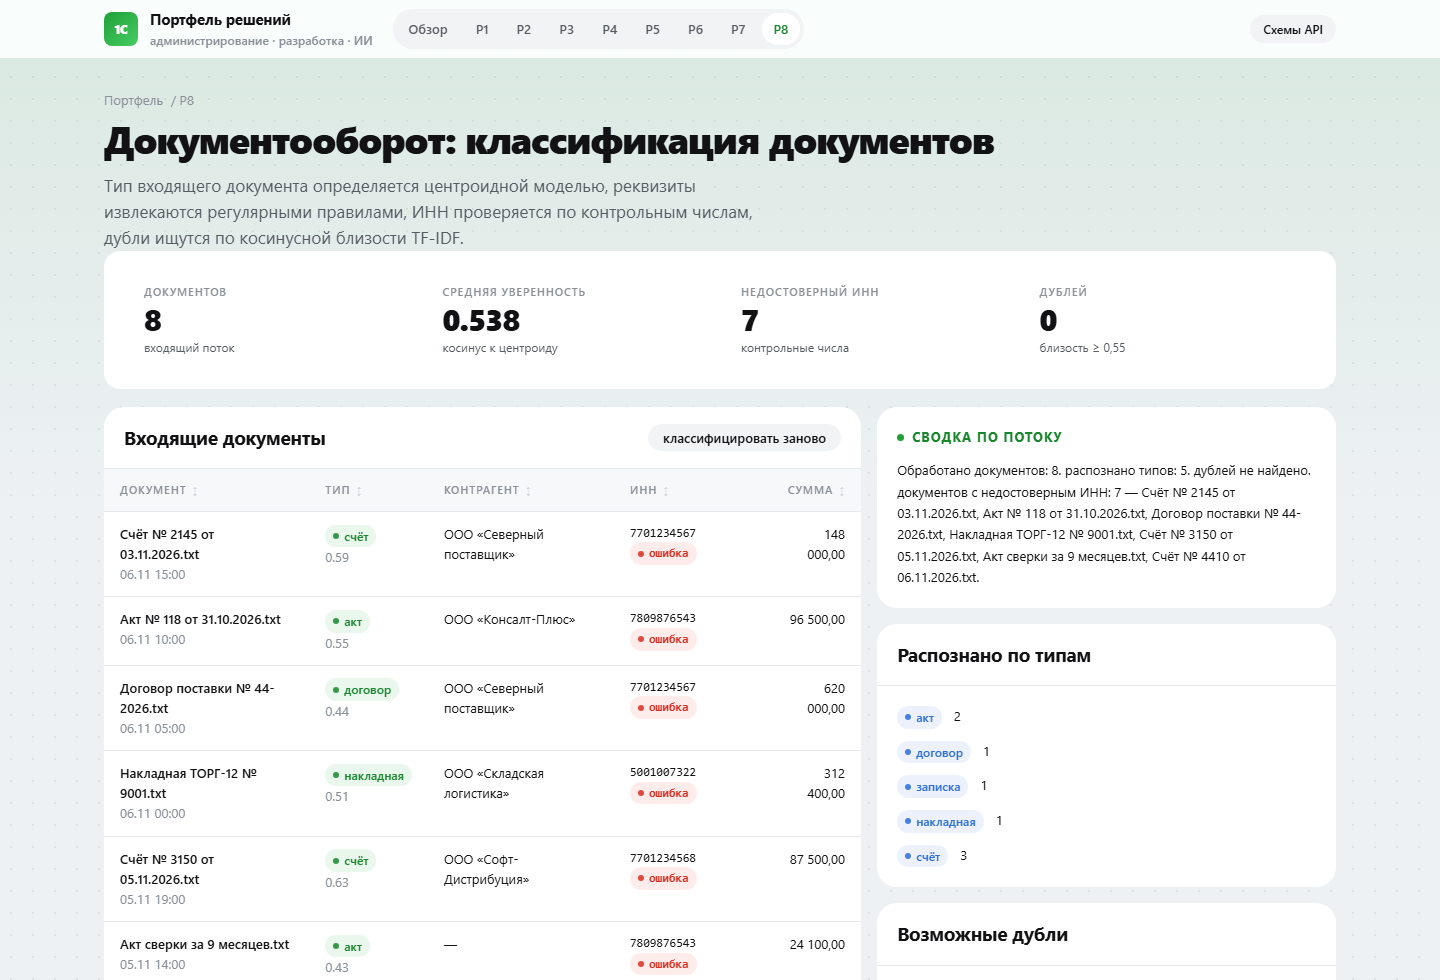
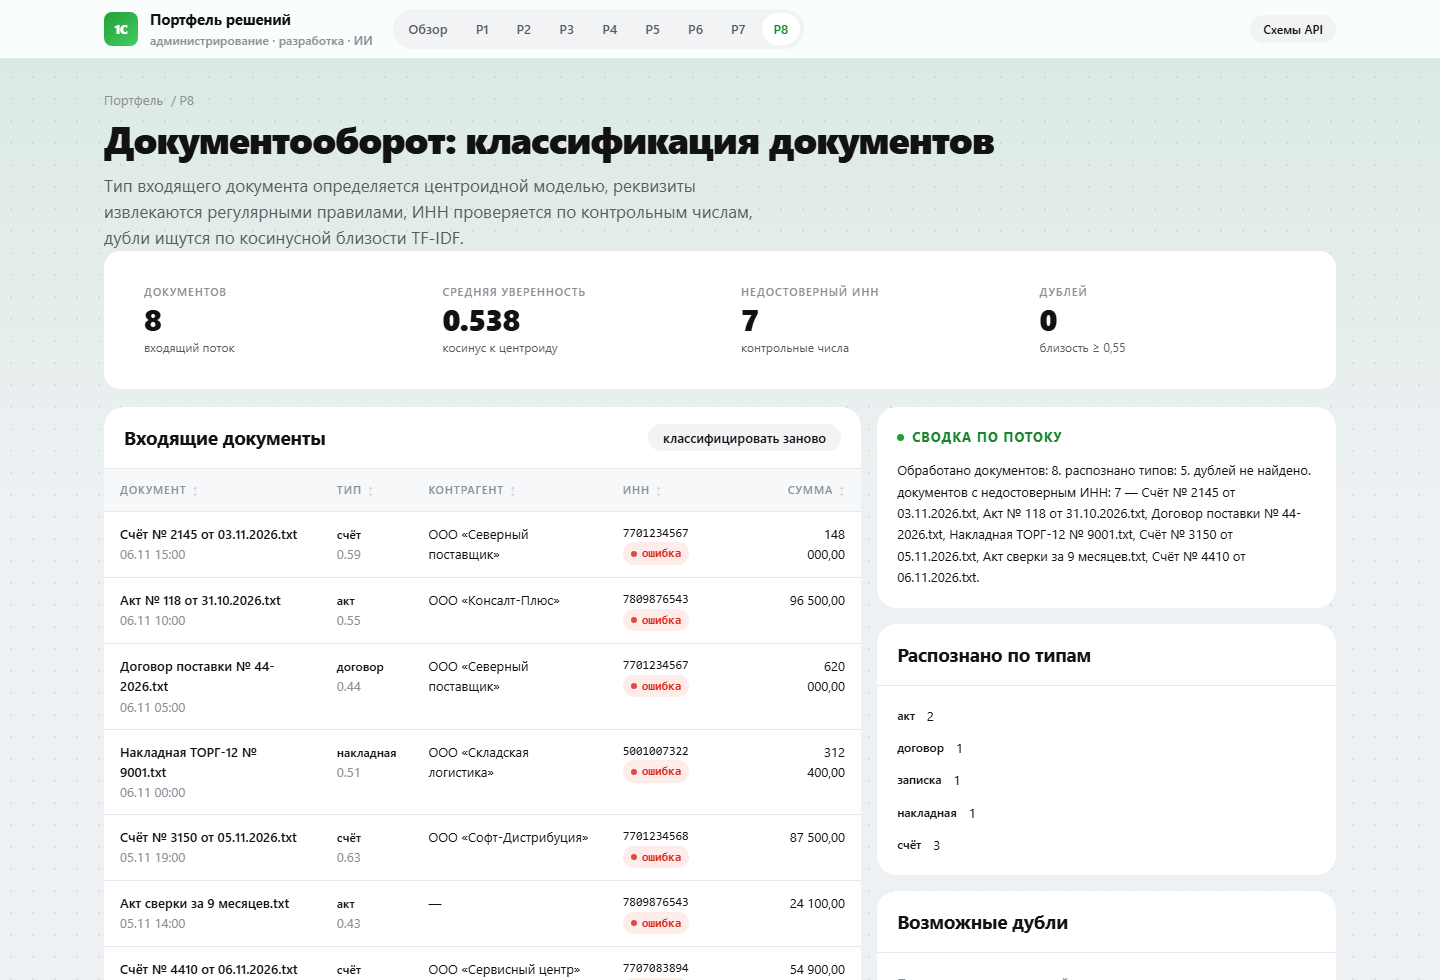
Тип документа без плашки, ошибка ИНН остаётся плашкой, минималистичная иллюстрация в герое

diff --git a/templates/p8/edo.html b/templates/p8/edo.html
@@ -23,11 +23,11 @@
           {% for row in model.documents %}
           <tr>
             <td><b>{{ row.file_name }}</b><div class="muted">{{ row.received_at|dt }}</div></td>
-            <td>{{ m.badge('ok', row.predicted) }}<div class="muted">{{ "%.2f"|format(row.confidence) }}</div></td>
+            <td>{{ m.badge('plain', row.predicted) }}<div class="muted">{{ "%.2f"|format(row.confidence) }}</div></td>
             <td>{{ row.requisites.counterparty or "—" }}</td>
             <td class="mono">
               {{ row.requisites.inn or "—" }}
-              {% if row.requisites.inn %}{{ m.badge('ok' if row.requisites.inn_valid else 'risk', 'верный' if row.requisites.inn_valid else 'ошибка') }}{% endif %}
+              {% if row.requisites.inn and not row.requisites.inn_valid %}{{ m.badge('risk', 'ошибка') }}{% endif %}
             </td>
             <td class="num">{{ row.requisites.amount|decimal if row.requisites.amount else "—" }}</td>
           </tr>
@@ -47,7 +47,7 @@
       <div class="panel-body">
         <ul class="list-clean">
           {% for label, count in model.counts.items() %}
-          <li><span class="badge info">{{ label }}</span><span>{{ count }}</span></li>
+          <li><span class="badge plain">{{ label }}</span><span>{{ count }}</span></li>
           {% endfor %}
         </ul>
       </div>

diff --git a/static/js/pages.js b/static/js/pages.js
@@ -241,13 +241,27 @@ function initP7() {
 
 function documentRow(row) {
   const tr = document.createElement("tr");
-  const name = textNode("td", row.file_name);
-  name.appendChild(textNode("div", `тип: ${row.predicted}`, "muted"));
-  tr.append(name, textNode("td", row.confidence.toFixed(2), "num"));
-  tr.append(textNode("td", row.requisites.counterparty || "—"));
-  tr.append(textNode("td", row.requisites.inn || "—", "mono"));
-  tr.append(textNode("td", row.requisites.amount ?? "—", "num"));
+  tr.append(nameCell(row), typeCell(row), textNode("td", row.requisites.counterparty || "—"), innCell(row), textNode("td", row.requisites.amount ?? "—", "num"));
   return tr;
+}
+
+function nameCell(row) {
+  const cell = textNode("td", row.file_name);
+  cell.appendChild(textNode("div", row.received_at || "", "muted"));
+  return cell;
+}
+
+function typeCell(row) {
+  const cell = textNode("td", row.predicted);
+  cell.appendChild(textNode("div", row.confidence.toFixed(2), "muted"));
+  return cell;
+}
+
+function innCell(row) {
+  const cell = textNode("td", row.requisites.inn || "—", "mono");
+  const broken = row.requisites.inn && !row.requisites.inn_valid;
+  if (broken) cell.appendChild(badge("ошибка", "risk"));
+  return cell;
 }
 
 function initP8() {

diff --git a/static/css/sber.css b/static/css/sber.css
@@ -294,6 +294,8 @@ h1, h2, h3, h4, p, figure { margin: 0; }
 .badge.risk { background: var(--risk-100); color: var(--risk-600); }
 .badge.info { background: var(--info-100); color: var(--info-600); }
 .badge.muted { background: var(--surface-2); color: var(--text-muted); }
+.badge.plain { background: none; padding: 0; color: var(--text); font-weight: var(--fw-medium); }
+.badge.plain::before { display: none; }
 
 .dot { width: 8px; height: 8px; border-radius: 50%; display: inline-block; background: var(--accent); }
 .dot.warn { background: var(--warn-600); }
